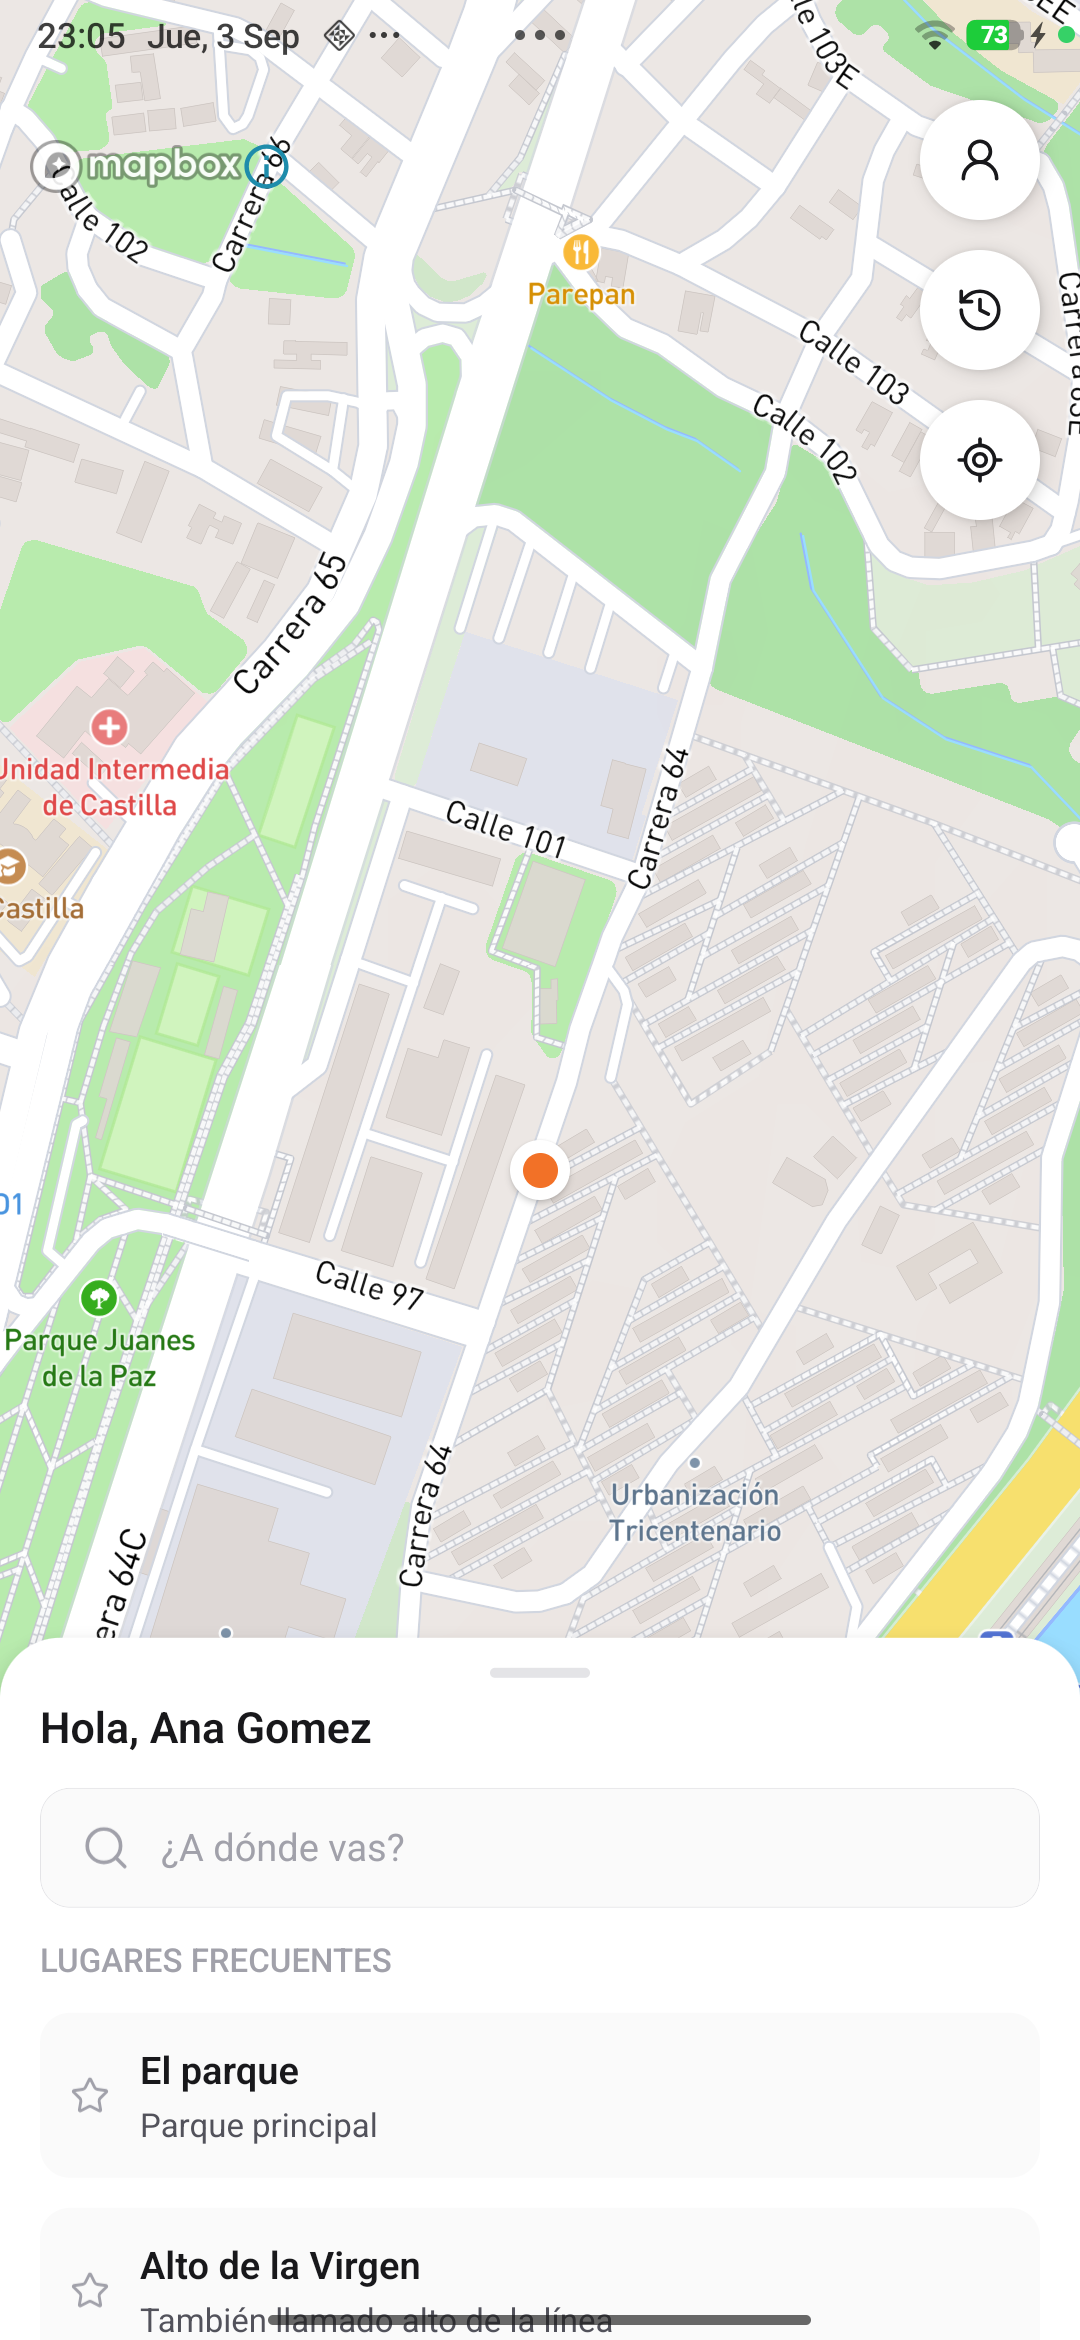
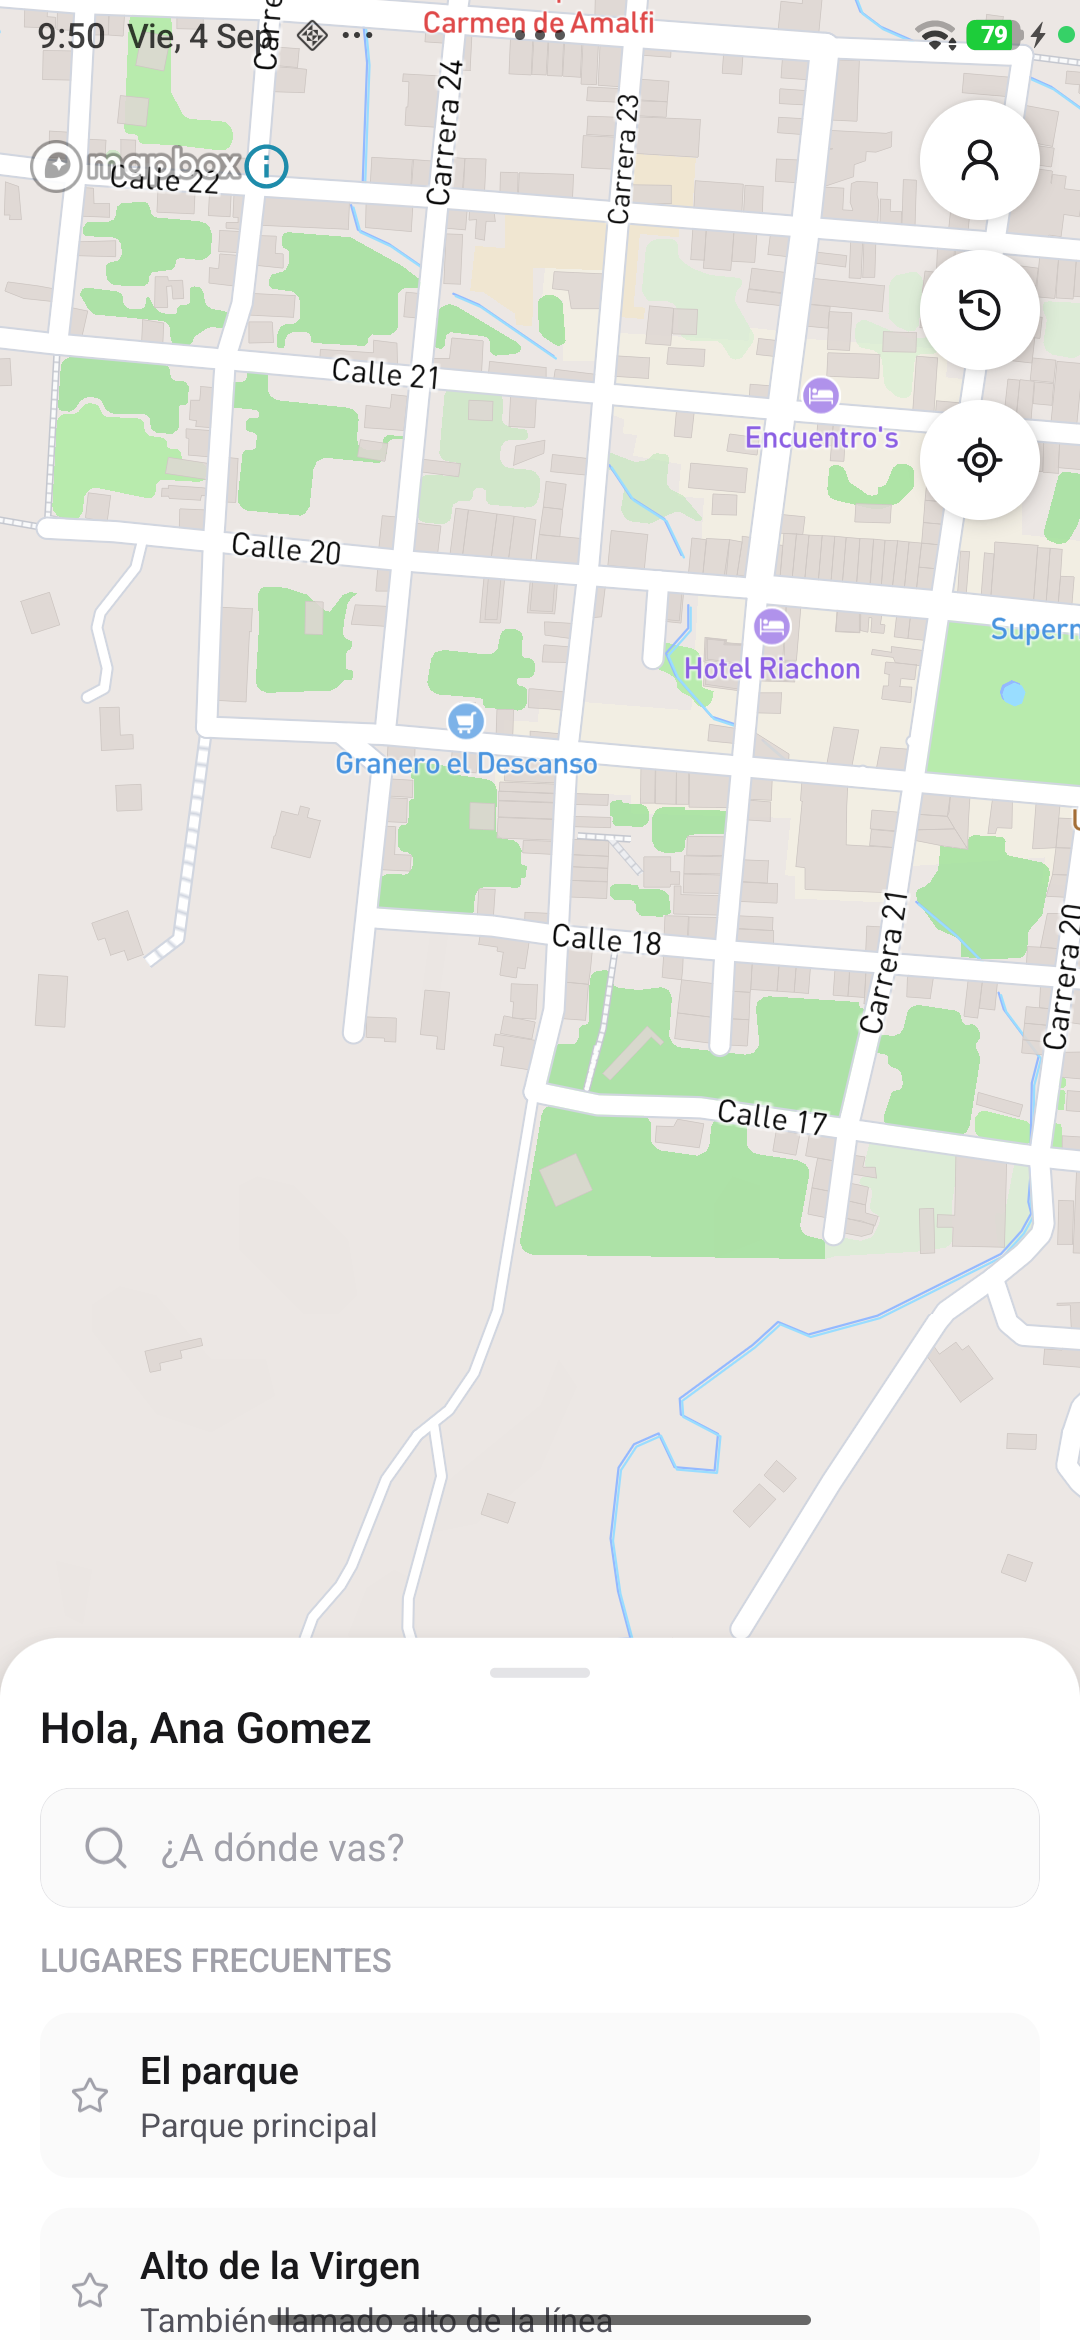
Rehace 4 capturas de Play Store con datos limpios
Mapa centrado en Amalfi (antes salía la ubicación real de la tablet en
Medellín), nombres de conductores presentables en el historial, y una
cuenta desechable con correo real para el perfil (sin el dominio de QA).

diff --git a/PROJECT_STATUS.md b/PROJECT_STATUS.md
@@ -7631,7 +7631,7 @@ administrativo desplegado. Lanzamiento completo en Amalfi.
 | 4 | Build de producción con EAS: keystore real (Play App Signing) + AAB + clave de FCM V1 para `co.amalfigo.app` | **4a hecho** (2026-09-03). **4b HECHO** (2026-09-04): `.aab` de producción construido por EAS (build `428cd943`, versionCode 3), firmado con el keystore de EAS. Falta subirlo a Play (espera la verificación de la cuenta) |
 | 5 | Huellas SHA en su sitio: SHA-256 (keystore + Play App Signing) a `assetlinks.json` | **Parcial** (2026-09-04). `assetlinks.json` ya lleva DOS huellas para `co.amalfigo.app`: la de depuración (`FA:C6:...`) y la del keystore de subida de EAS (`8C:59:...`). Se quitó la entrada vieja `com.motomoto.app`. **Falta la de Play App Signing** (la da Google al subir el primer AAB). La SHA-1 a Google Maps ya no aplica: se eliminó esa clave por no usarse (ver más abajo) |
 | 6 | Desplegar el panel administrativo (`admin/`, Next.js) | **HECHO** (2026-09-03). En vivo en **`https://panel.amalfigo.app`** (Vercel, HTTPS, CNAME en Cloudflare). Super admin entra, las listas cargan. Runbook en `docs/operaciones/despliegue-panel.md` |
-| 7 | Ficha de Play Store: textos, capturas, Data Safety, permisos, clasificación | **Redactada** (2026-09-03) en `docs/operaciones/ficha-play-store.md`: nombre, descripciones, categoría, cuestionario de clasificación, tabla de Data Safety, permisos, plan de lanzamiento. **Destapó dos bloqueadores** (ver 7b y la política de privacidad). Faltan los gráficos (feature graphic + capturas del build del paso 5) |
+| 7 | Ficha de Play Store: textos, capturas, Data Safety, permisos, clasificación | **Redactada** (2026-09-03) en `docs/operaciones/ficha-play-store.md`: nombre, descripciones, categoría, cuestionario de clasificación, tabla de Data Safety, permisos, plan de lanzamiento. **Destapó dos bloqueadores** (ver 7b y la política de privacidad). Feature graphic hecho; 4 de 7 capturas hechas con datos limpios (2026-09-04). Faltan 3 que necesitan un viaje simulado completo |
 | 7b | Eliminación de cuenta: opción en la app + página web + función de Supabase | **HECHO Y VERIFICADO EN LA TABLET** (2026-09-04). Migración `20260904000000` (`delete_my_account` + perfil marcador), `deleteAccount` en `auth-service`, botón en `passenger/profile`, `amalfigo.app/eliminar-cuenta` (en vivo). `prueba_eliminar_cuenta.sql` 10/10. En el dispositivo: crear cuenta → confirmar → Perfil → Eliminar → la cuenta desaparece de `auth.users` y vuelve a bienvenida |
 | 8 | Limpieza (`purge_qa_accounts.sql`), envío a revisión y verificación final | Pendiente. Los 3 asuntos de correo ya se tradujeron (2026-09-04) |
 
@@ -7857,10 +7857,28 @@ requisito de cuenta personal reciente).
 `assets/brand/feature-graphic.mjs` (marca + eslogan sobre `#2a323c`) →
 `assets/store/feature-graphic.png`. Cuatro capturas en `assets/store/capturas/`
 (1080×2340: bienvenida, inicio, perfil, historial), sacadas de la tablet con el
-APK de pruebas emulando tamaño de teléfono (`wm size 1080x2340`). Llevan datos
-de prueba y el mapa sale en Bogotá (la tablet no está en Amalfi); se rehacen con
-datos limpios y las 3 que faltan -tarifa, seguimiento, solicitudes del
-conductor- cuando esté el build del paso 5.
+APK de pruebas emulando tamaño de teléfono (`wm size 1080x2340`).
+
+**Repetidas con datos limpios el mismo día.** La primera tanda tenía datos de
+QA visibles: el perfil mostraba `pasajero.prueba@motomoto-qa.co`, el historial
+"Conductor de prueba"/"Segundo conductor", y el mapa salía en Medellín (la
+ubicación real de la tablet, no Bogotá como se pensó al principio) en vez de
+Amalfi. Arreglos, sin tocar los datos de QA de forma permanente:
+
+- **Mapa:** desde el buscador de destino, "Elegir en el mapa" con un lugar de
+  Amalfi como origen y otro como destino centra la cámara en el pueblo sin
+  necesidad de spoofear el GPS.
+- **Historial:** los nombres de los conductores de prueba (`d0000000-...0001`
+  y `...0002`) se renombraron por SQL solo mientras se tomaba la captura y se
+  revirtieron enseguida -uno de ellos lo verifica por texto literal
+  `prueba_cancelaciones.sql`, así que dejarlo cambiado habría roto esa prueba-.
+- **Perfil:** se registró una cuenta nueva y desechable ("Camila Restrepo",
+  `+demo` sobre el gmail del usuario) por el flujo normal de la app, se
+  confirmó por correo, se tomó la captura y se borró con "Eliminar mi cuenta"
+  (Fase 26 paso 7b) al terminar.
+
+Faltan las 3 que necesitan un viaje completo simulado: tarifa antes de
+confirmar, conductor en el mapa, lista de solicitudes del conductor.
 
 ### Lo que se hizo: paso 7b, la eliminación de cuenta (2026-09-04)
 
